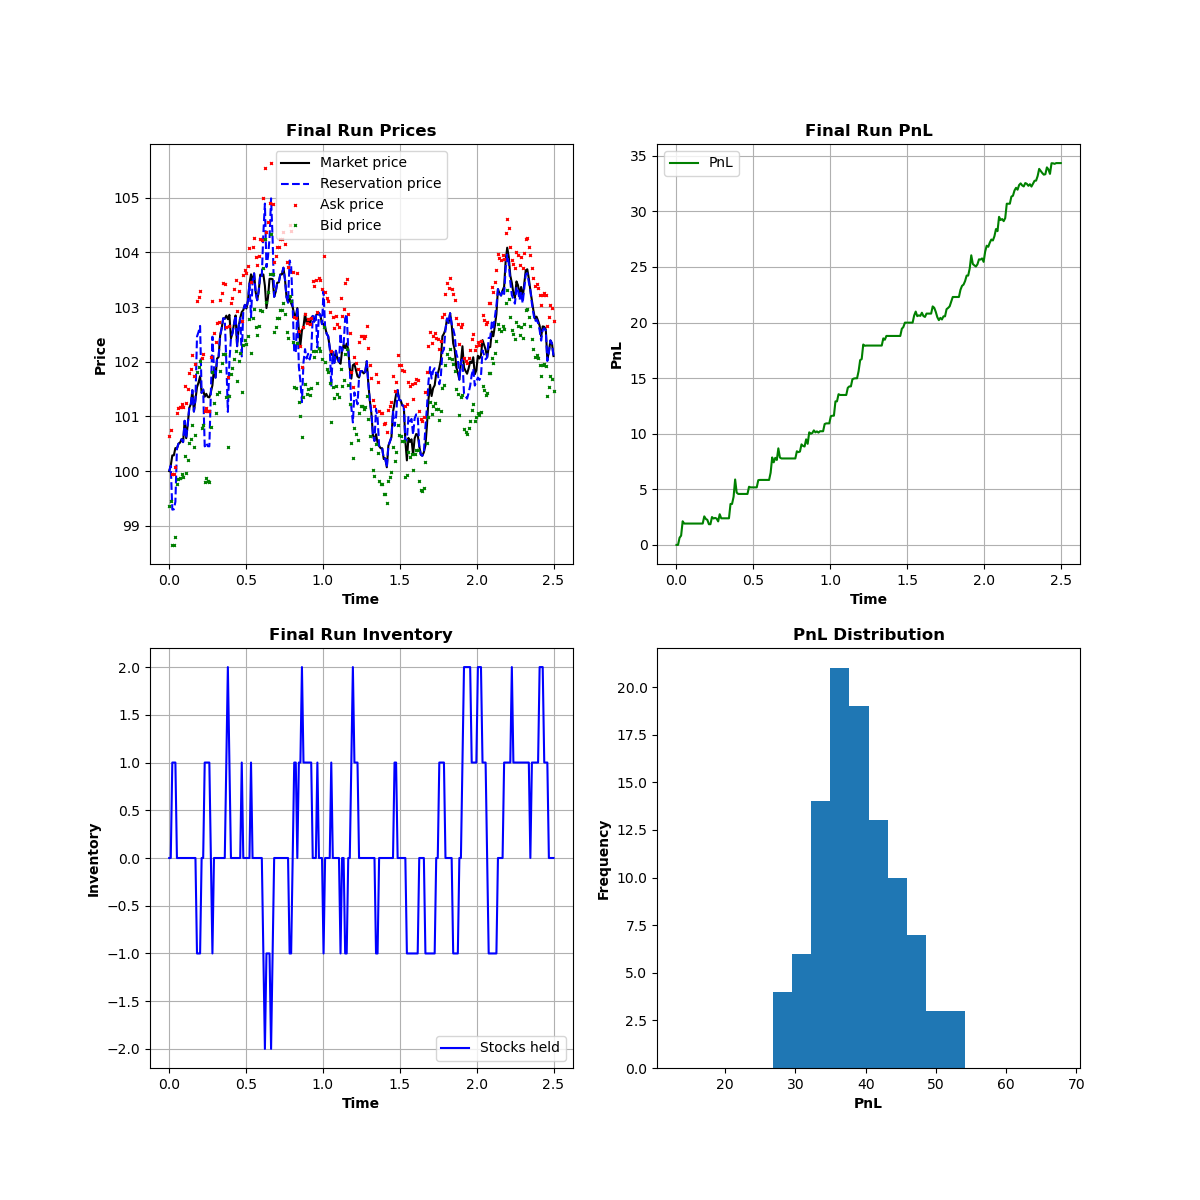
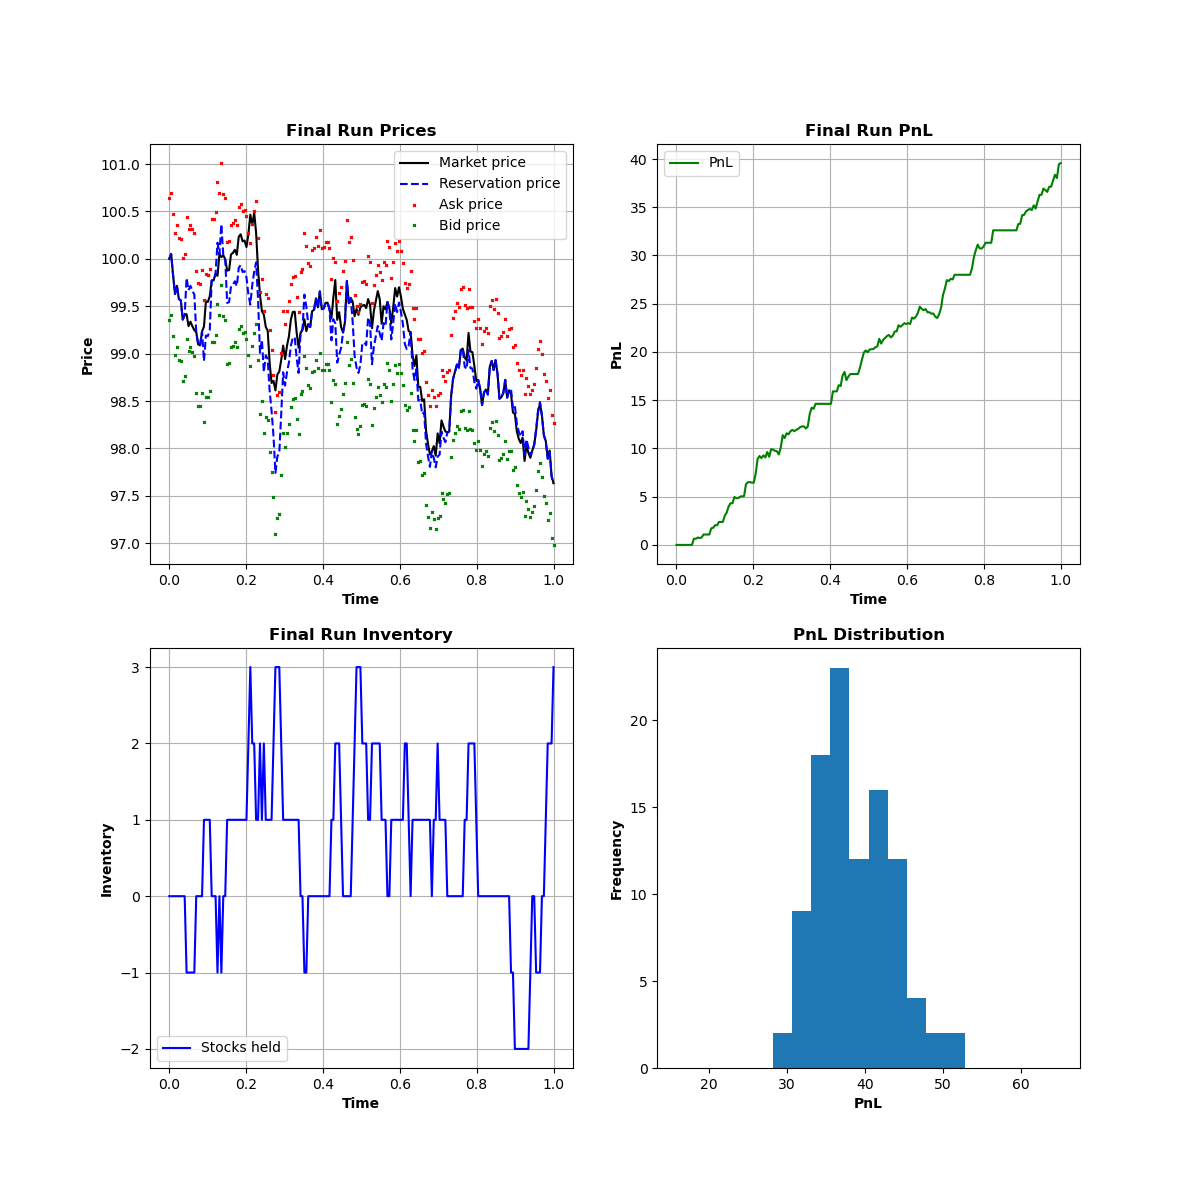
adjusted time steps

diff --git a/src/main.py b/src/main.py
@@ -128,8 +128,8 @@ class MarketMaker:
 
 if __name__ == "__main__":
     marketmaker = MarketMaker(s0=100,
-                              n=250,
-                              dt=0.01,
+                              n=200,
+                              dt=0.005,
                               mu=0,
                               sigma=2,
                               gamma=0.1,
